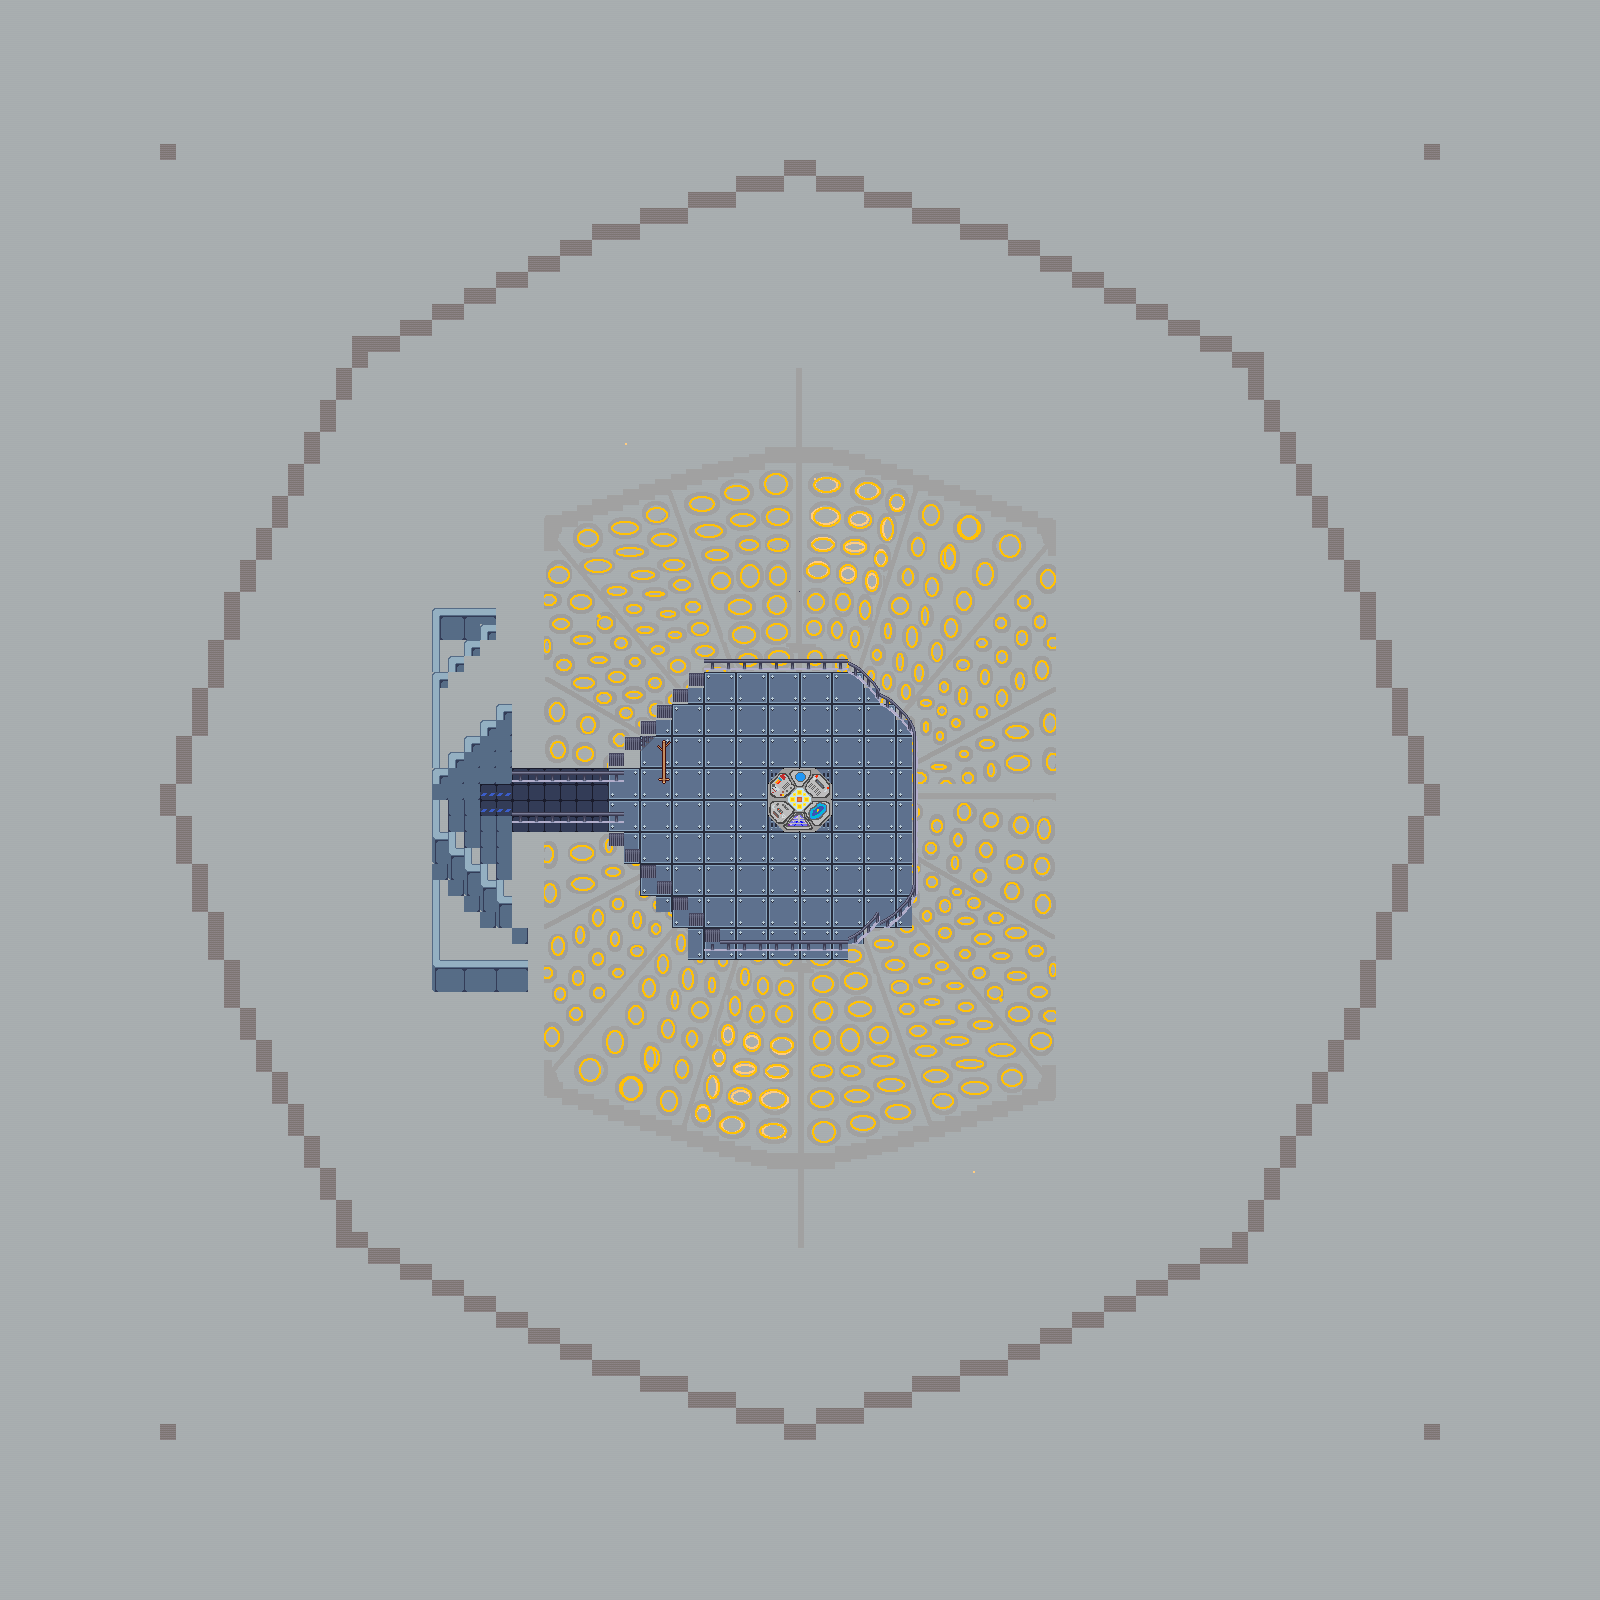
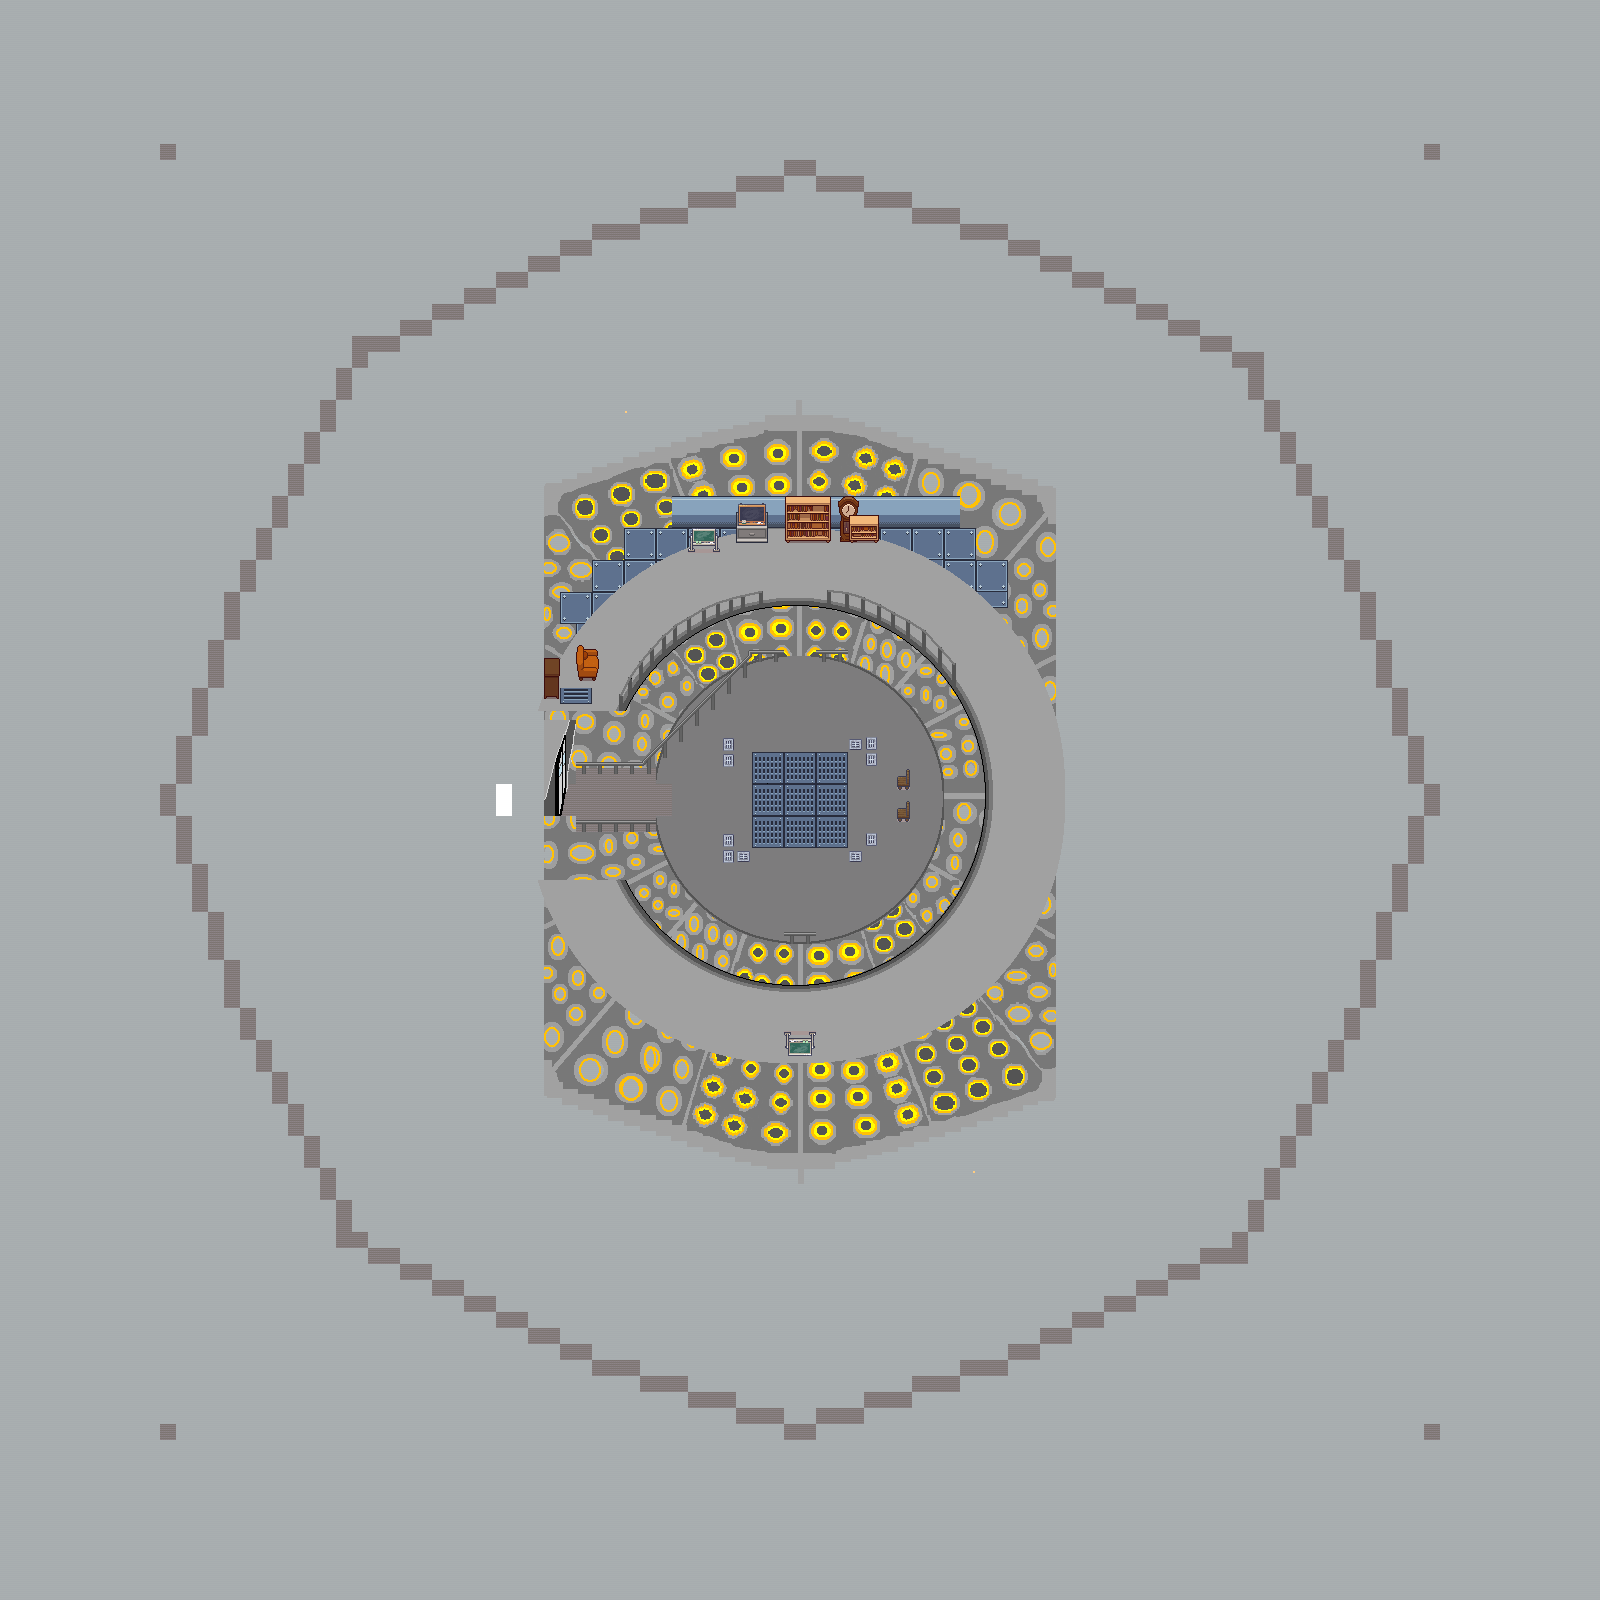
tardis map update - round floor, props

Changed region(s): [[0.25, 0.25, 0.6875, 0.7188], [0.25, 0.375, 0.3125, 0.4062]]

diff --git a/OverWorldMap.js b/OverWorldMap.js
@@ -344,7 +344,7 @@ window.OverworldMaps = {
   },
   Tardis: {
     id: "Tardis",
-    lowerSrc: "/images/tardis/Tardis-map-v6.png",
+    lowerSrc: "/images/tardis/Tardis-map-v7.png",
     upperSrc: "/images/maps/KitchenUpper.png",
     outsideMap: "Outside_tardis",
     tardisLanded: true,
